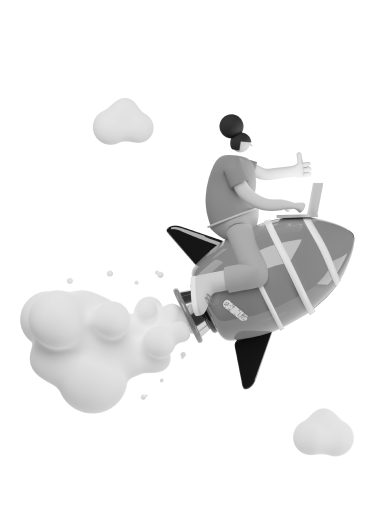
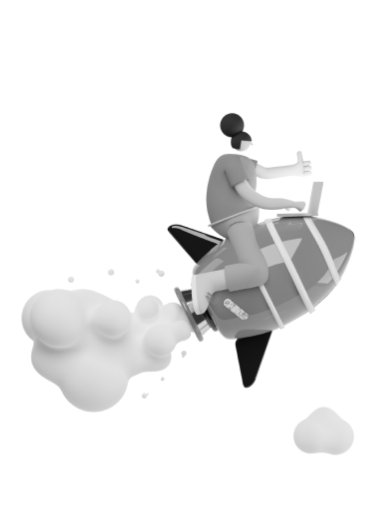
formsAndRoutesbegined. :)

diff --git a/Front/src/components/SingUpForm.tsx b/Front/src/components/SingUpForm.tsx
@@ -1,0 +1,127 @@
+import img1 from "../assets/doodle-7 1.png";
+import img2 from "../assets/doodle-5 1.png";
+import { useState } from "react";
+import SingUpButton from "../commons/SingUpButton";
+type Props = {};
+import { useLocation } from "react-router";
+
+const SingInForm = (props: Props) => {
+  const type: string = useLocation().pathname.slice(1);
+  console.log(type, useLocation());
+
+  const [name, setName] = useState("userName");
+  const [email, setEmail] = useState("email");
+  const [password, setPassword] = useState("password");
+  return (
+    <div className="SingInContainer  px-10" style={{ paddingTop: "6rem" }}>
+      <h1 className="font-bold text-5xl">THE</h1>
+      <h1 className="font-bold text-5xl">PERFECT</h1>
+      <h1 className="font-bold text-5xl">
+        <span className="font-bold text-white">M</span>ENTOR
+      </h1>
+      <img src={img1} alt="" className="absolute top-7 left-36" />
+      <img src={img2} alt="" className="absolute top-24 right-1" />
+      <div
+        className="border-solid mt-10 border-2 border-black p-5 rounded-3xl mt-1"
+        style={{ width: "335px", height: "381px" }}
+      >
+        <form>
+          <h1 className="font-bold text-4xl mb-5">
+            {type === "SingUp" ? "Sing up" : "Sing In"}
+          </h1>
+          <hr
+            className="bg-transparent"
+            style={{ borderTop: "2px dotted black" }}
+          />
+
+          {type === "SingUp" ? (
+            <></>
+          ) : (
+            <h2 className="font-light mt-7 text-4xl "> Hi, name</h2>
+          )}
+
+          <div style={{ display: type === "SingIn" ? "none" : "inherit" }}>
+            <svg
+              viewBox="0 0 24 24"
+              fill="currentColor"
+              height="1em"
+              width="1em"
+              className="absolute my-7 mx-2 h-8 w-6 p-0.5 bg-white rounded-full"
+            >
+              <path d="M12 2a5 5 0 105 5 5 5 0 00-5-5zm0 8a3 3 0 113-3 3 3 0 01-3 3zm9 11v-1a7 7 0 00-7-7h-4a7 7 0 00-7 7v1h2v-1a5 5 0 015-5h4a5 5 0 015 5v1z" />
+            </svg>
+            <input
+              type="text"
+              className="bg-transparent my-4 text-color border-solid border-2 border-black rounded-full h-14 w-full pl-9 "
+              value={name}
+              onClick={(e) => {
+                setName("");
+              }}
+              onChange={(e) => {
+                setName(e.target.value);
+              }}
+            />
+          </div>
+
+          <svg
+            viewBox="0 0 24 24"
+            fill="currentColor"
+            height="1em"
+            width="1em"
+            className="absolute my-7 mx-2 h-8 w-6 p-0.5 bg-white rounded-full"
+          >
+            <path d="M22 6c0-1.1-.9-2-2-2H4c-1.1 0-2 .9-2 2v12c0 1.1.9 2 2 2h16c1.1 0 2-.9 2-2V6m-2 0l-8 5-8-5h16m0 12H4V8l8 5 8-5v10z" />
+          </svg>
+
+          <input
+            type="email"
+            className="bg-transparent my-4 text-color border-solid border-2 border-black rounded-full h-14 w-full pl-9  "
+            value={email}
+            onClick={(e) => {
+              setEmail("");
+            }}
+            onChange={(e) => {
+              setEmail(e.target.value);
+              console.log(email);
+            }}
+          />
+          <svg
+            viewBox="0 0 1024 1024"
+            fill="currentColor"
+            height="1em"
+            width="1em"
+            className="absolute my-7 mx-2 h-8 w-6 p-0.5 bg-white rounded-full"
+          >
+            <path d="M832 464h-68V240c0-70.7-57.3-128-128-128H388c-70.7 0-128 57.3-128 128v224h-68c-17.7 0-32 14.3-32 32v384c0 17.7 14.3 32 32 32h640c17.7 0 32-14.3 32-32V496c0-17.7-14.3-32-32-32zM540 701v53c0 4.4-3.6 8-8 8h-40c-4.4 0-8-3.6-8-8v-53a48.01 48.01 0 1156 0zm152-237H332V240c0-30.9 25.1-56 56-56h248c30.9 0 56 25.1 56 56v224z" />
+          </svg>
+          <input
+            type="text"
+            className="bg-transparent my-4 text-color border-solid border-2 border-black rounded-full h-14 w-full pl-9 "
+            value={password}
+            onClick={(e) => {
+              setPassword("");
+              e.target.type = "password";
+              console.log(e.target);
+            }}
+            onChange={(e) => {
+              setPassword(e.target.value);
+            }}
+          />
+          {type === "SingIn" ? (
+            <p className="text-sm"> Do you forgot your password?</p>
+          ) : (
+            <></>
+          )}
+        </form>
+      </div>
+      <div style={{ width: "335px" }}>
+        <SingUpButton
+          action={"Submit"}
+          data={{ name: name, email: email, password: password }}
+        />
+      </div>
+    </div>
+  );
+};
+
+export default SingInForm;

diff --git a/Front/src/components/MainView.tsx b/Front/src/components/MainView.tsx
@@ -7,18 +7,18 @@ import SingUpButton from "../commons/SingUpButton";
 
 const MainView = () => {
   return (
-    <div className="AppContainer p-4 max-h-screen">
-      <h1 className="font-bold text-6xl">THE</h1>
-      <h1 className="font-bold text-6xl">PERFECT</h1>
-      <h1 className="font-bold text-6xl">
+    <div className="AppContainer px-9 py-28 max-h-screen">
+      <h1 className="font-bold text-5xl">THE</h1>
+      <h1 className="font-bold text-5xl">PERFECT</h1>
+      <h1 className="font-bold text-5xl">
         <span className="font-bold text-white">M</span>ENTOR
       </h1>
-      <img src={img1} alt="" className="absolute top-32 right-64" />
-      <img src={img2} alt="" className="absolute top-32" />
-      <img src={img3} alt="" className="absolute bottom-32" />
-      <div className="w-11/12 absolute bottom-5 ">
-        <SingInButton action={"goToSingInForm"} />
-        <SingUpButton type={"hola"} />
+      <img src={img1} alt="" className="absolute top-48 left-0.5" />
+      <img src={img2} alt="" className="absolute top-40 left-12 w-10/12" />
+      <img src={img3} alt="" className="absolute bottom-48 w-44 left-24" />
+      <div className="w-10/12 absolute bottom-5 ">
+        <SingInButton action={"goToSingInForm"} data={{}} />
+        <SingUpButton action={"hola"} data={{}} />
       </div>
     </div>
   );

diff --git a/Front/src/commons/SingUpButton.tsx b/Front/src/commons/SingUpButton.tsx
@@ -1,20 +1,21 @@
 import React from "react";
 import { useNavigate } from "react-router";
 
-type Props = { action: string };
+type Props = { action: string; data: object };
 
 const SingUpButton = (prop: Props) => {
   const navigate = useNavigate();
   function handleSingUp(action: string) {
     return action === "Submit"
-      ? /*aqui va la conexion con el back para hacer el submit */ console.log(
-          "hey"
+      ? /*aqui va la conexion con el back para hacer el submit, la data esta en el prop.data */ console.log(
+          "hey",
+          prop.data
         )
-      : navigate("/singUp");
+      : navigate("/SingUp");
   }
   return (
     <button
-      className="bg-transparent w-full my-3 border-solid border-2
+      className="bg-transparent w-full mt-5 border-solid border-2
   2 border-black rounded-full h-10"
       onClick={() => {
         handleSingUp(prop.action);

diff --git a/Front/src/commons/SingInButton.tsx b/Front/src/commons/SingInButton.tsx
@@ -1,22 +1,23 @@
 import React from "react";
 import { useNavigate } from "react-router";
 
-type Props = { action: string };
+type Props = { action: string; data: object };
 
 const SingInButton = (prop: Props) => {
   const navigate = useNavigate();
 
   function handleSingIn(action: string) {
     return action === "Submit"
-      ? /*aqui va la conexion con el back para hacer el submit */ console.log(
-          "hey"
+      ? /*aqui va la conexion con el back para hacer el submit, los datos estan en prop.data */ console.log(
+          "hey",
+          prop.data
         )
-      : navigate("/singIn");
+      : navigate("/SingIn");
   }
 
   return (
     <button
-      className="h-10 text-white bg-zinc-700 w-full rounded-full static top-72"
+      className="h-10 text-white bg-zinc-700 w-full rounded-full mt-5"
       onClick={() => handleSingIn(prop.action)}
     >
       Sing in

diff --git a/Front/src/App.tsx b/Front/src/App.tsx
@@ -1,11 +1,17 @@
 import { Routes, Route } from "react-router";
 import MainView from "./components/MainView";
+// import SingInForm from "./components/SingInForm";
+import SingUpForm from "./components/SingUpForm";
 
 function App() {
   return (
-    <Routes>
-      <Route path="/" element={<MainView />}></Route>
-    </Routes>
+    <div>
+      <Routes>
+        <Route path="/" element={<MainView />}></Route>
+        <Route path="/SingUp" element={<SingUpForm />}></Route>
+        <Route path="/SingIn" element={<SingUpForm />}></Route>
+      </Routes>
+    </div>
   );
 }
 

diff --git a/Front/tailwind.config.js b/Front/tailwind.config.js
@@ -1,5 +1,5 @@
 module.exports = {
-  content: ["./src/components/mainView.tsx", "./index.html", "./src/commons/SingInButton.tsx", "./src/commons/SingUpButton.tsx"],
+  content: ["./src/components/MainView.tsx", "./index.html", "./src/commons/SingInButton.tsx", "./src/commons/SingUpButton.tsx", "./src/components/SingUpForm.tsx"],
   theme: {},
   plugin: [],
 };
